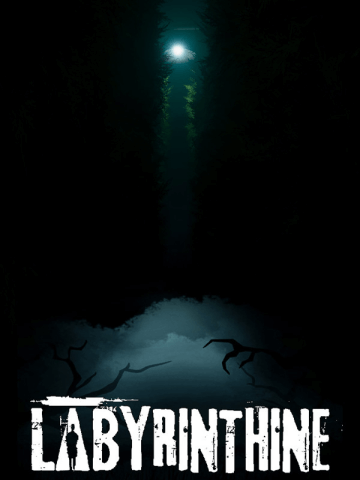
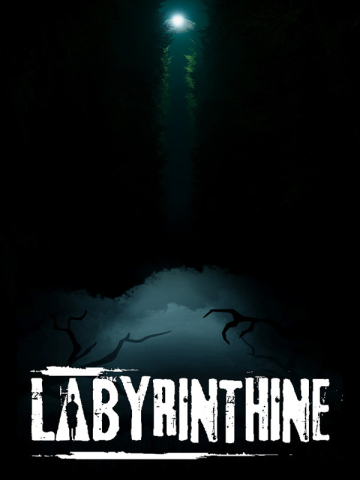
Add a new game: "DEPO : Death Epileptic Pixel Origins" and update assets
* Game added: DEPO : Death Epileptic Pixel Origins
* Assets updated for White Knuckle and Labyrinthine
* White Knuckle's installation folder updated (Removed "Demo")

Changed region(s): [[0.0611, 0.5312, 0.9167, 1.0], [0.4278, 0.0, 0.5806, 0.2812]]

diff --git a/src/model/game/GameManager.ts b/src/model/game/GameManager.ts
@@ -943,7 +943,7 @@ export default class GameManager {
             GameSelectionDisplayMode.VISIBLE, GameInstanceType.GAME, PackageLoader.BEPINEX, ["soc"]),
 
         new Game("White Knuckle", "WhiteKnuckle", "WhiteKnuckle",
-            "White Knuckle Demo", ["White Knuckle.exe"], "White Knuckle_Data",
+            "White Knuckle", ["White Knuckle.exe"], "White Knuckle_Data",
             "https://thunderstore.io/c/white-knuckle/api/v1/package-listing-index/",
             [new StorePlatformMetadata(StorePlatform.STEAM, "3195790")], "WhiteKnuckle.png",
             GameSelectionDisplayMode.VISIBLE, GameInstanceType.GAME, PackageLoader.BEPINEX, ["wk"]),
@@ -995,6 +995,12 @@ export default class GameManager {
             "https://thunderstore.io/c/painting-vr/api/v1/package-listing-index/",
             [new StorePlatformMetadata(StorePlatform.STEAM, "1905940")], "PaintingVr.png",
             GameSelectionDisplayMode.VISIBLE, GameInstanceType.GAME, PackageLoader.RECURSIVE_MELON_LOADER, ["pvr"]),
+
+        new Game("DEPO : Death Epileptic Pixel Origins", "DEPO", "DEPO",
+            "DEPO", ["DEPO.exe"], "DEPO_Data",
+            "https://thunderstore.io/c/depo/api/v1/package-listing-index/",
+            [new StorePlatformMetadata(StorePlatform.STEAM, "1091320")], "DEPO.png",
+            GameSelectionDisplayMode.VISIBLE, GameInstanceType.GAME, PackageLoader.BEPINEX, [""]),
     ];
 
     static get activeGame(): Game {

diff --git a/src/r2mm/installing/profile_installers/ModLoaderVariantRecord.ts b/src/r2mm/installing/profile_installers/ModLoaderVariantRecord.ts
@@ -246,6 +246,7 @@ const VARIANTS = {
     ANEURISMIV: MODLOADER_PACKAGES,
     Labyrinthine: RECURSIVE_MELONLOADER_MAPPING,
     PaintingVr: RECURSIVE_MELONLOADER_MAPPING,
+    DEPO: MODLOADER_PACKAGES,
 };
 // Exported separately from the definition in order to preserve the key names in the type definition.
 // Otherwise this would become [key: string] and we couldn't use the game names for type hinting elsewhere.

diff --git a/src/r2mm/installing/default_installation_rules/InstallationRuleApplicator.ts b/src/r2mm/installing/default_installation_rules/InstallationRuleApplicator.ts
@@ -173,6 +173,7 @@ export default class InstallationRuleApplicator {
             buildBepInExRules("LostSkies"),
             buildBepInExRules("ANEURISMIV"),
             buildMelonLoaderRules("PaintingVr"),
+            buildBepInExRules("DEPO"),
         ]
     }
 }
